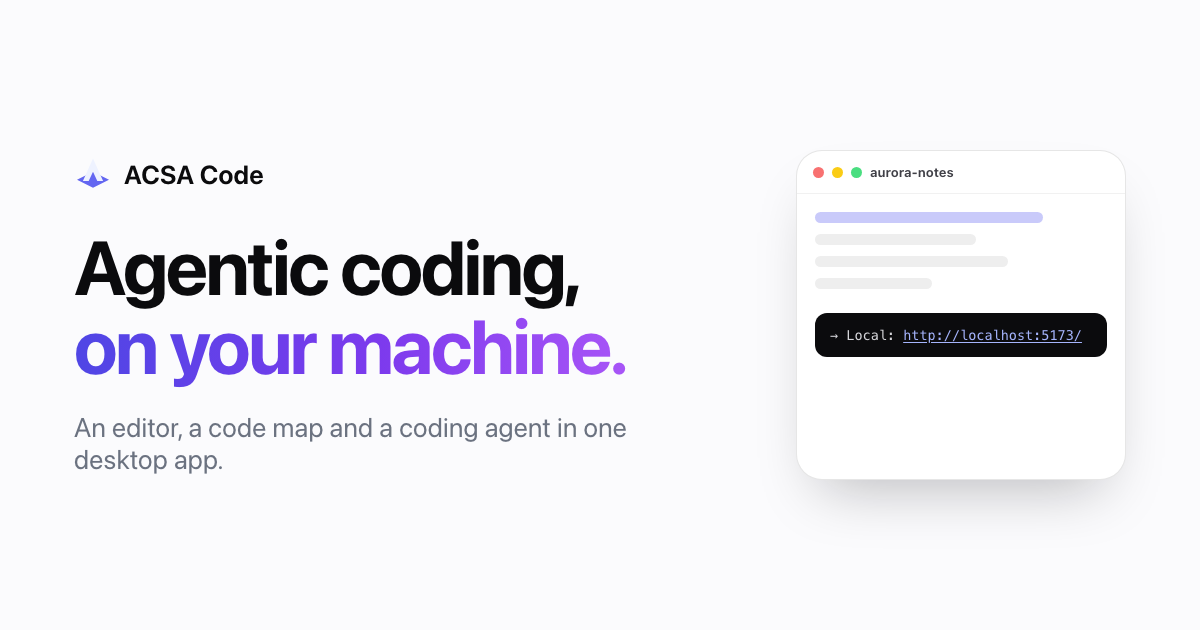
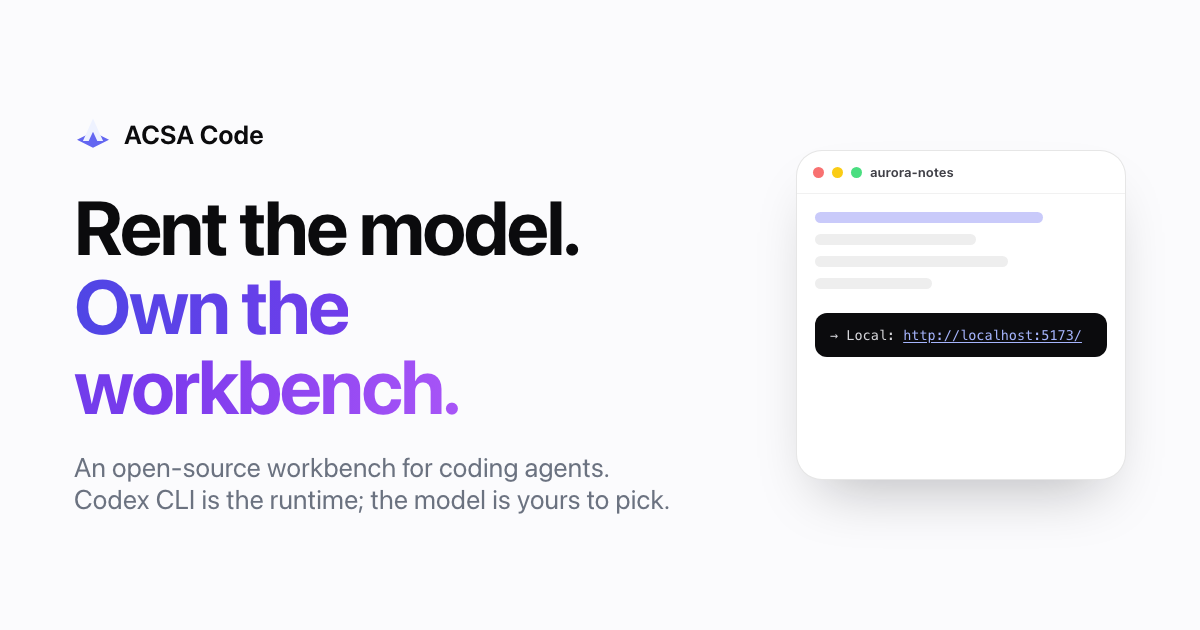
chore(site): remove what the replaced drawings left behind, and put the story in the metadata
Six drawings became real screenshots over the last two commits, and each one left its CSS behind: 48 rules for the diff blocks, the commit graph, the marketplace cards, the cost bars and the terminal that used to type itself. A rule was dropped only when every class in its selector was dead, so the four that shared a selector with something live had the dead part filtered out instead — .term2 out of '.term__body a, .term2 a', .repo out of '.limits, .repo'. Braces verified balanced afterwards (216/216). CSS 21.0 kB -> 17.5 kB.

The canvas routine went with the map drawing it belonged to: 121 lines of drawMap, its Node interface and the #mapCanvas wiring. JS 6.35 kB -> 4.39 kB, typecheck clean.

Then the metadata, which still advertised the old line: the title, both descriptions and the JSON-LD now say 'rent the model, own the workbench' and name Codex CLI as the runtime with any model behind it, and og.png is re-rendered from og.html so the card that gets shared says the same thing as the page it opens. That mattered more than it looks: the title is the first thing anyone reads, in a tab or a search result, and it was the one place still promising 'agentic coding, on your machine'.

Changed region(s): [[0.0617, 0.181, 0.5242, 0.6937], [0.0617, 0.7238, 0.555, 0.8143]]

diff --git a/site/src/styles.css b/site/src/styles.css
@@ -207,7 +207,7 @@ h1 { font-size: clamp(2.6rem, 6vw, 4.15rem); }
 .term__body .t-dim { color: #71717a; }
 .term__body .t-ok { color: #4ade80; }
 .term__body .t-accent { color: #a5b4fc; }
-.term__body a, .term2 a, .term__body .t-link, .term2 .t-link {
+.term__body a, .term__body .t-link {
   color: #a5b4fc; text-decoration: underline; text-underline-offset: 2px;
 }
 .caret { display: inline-block; width: 7px; height: 13px; background: #a5b4fc; vertical-align: -2px; animation: blink 1.05s steps(1) infinite; }
@@ -296,70 +296,8 @@ h1 { font-size: clamp(2.6rem, 6vw, 4.15rem); }
 }
 .fakechat__done { margin: 12px 0 4px; font-size: 0.85rem; color: var(--ink-2); border-top: 1px solid var(--line-2); padding-top: 12px; }
 
-.code { font-family: var(--mono); font-size: 0.79rem; }
-.code__row { display: flex; gap: 14px; padding: 2px 14px; line-height: 1.75; }
-.code__row--del { background: var(--del); }
-.code__row--add { background: var(--add); }
-.ln { color: #a1a1aa; width: 20px; text-align: right; flex: none; user-select: none; }
-.src { white-space: pre-wrap; word-break: break-word; color: var(--ink-2); }
-.code__row--del .src { color: #991b1b; }
-.code__row--add .src { color: #166534; }
 
-.repo { display: grid; grid-template-columns: 1fr 1fr; gap: 0; }
-.repo__col { padding: 15px 16px; }
-.repo__col + .repo__col { border-left: 1px solid var(--line-2); }
-.repo__label { margin: 0 0 11px; font-size: 0.71rem; font-weight: 650; letter-spacing: 0.06em; text-transform: uppercase; color: var(--muted); }
-.fileref { display: flex; align-items: center; gap: 8px; font-size: 0.8rem; color: var(--ink-2); padding: 6px 0; }
-.fileref .diff { margin-left: auto; }
-.swatch { width: 7px; height: 7px; border-radius: 2px; flex: none; }
-.swatch--mod { background: #f59e0b; }
-.swatch--new { background: var(--ok); }
-.repo__msg { margin: 14px 0 10px; font-size: 0.79rem; padding: 8px 10px; border: 1px solid var(--line-2); border-radius: 9px; color: var(--ink-2); background: #fdfdfe; }
-.commits { list-style: none; margin: 0; padding: 0; display: grid; gap: 9px; }
-.commits li { display: flex; gap: 8px; font-size: 0.79rem; color: var(--ink-2); position: relative; padding-left: 16px; }
-.commits li::before {
-  content: ""; position: absolute; left: 2px; top: 0.5em; width: 6px; height: 6px;
-  border-radius: 50%; background: #fff; border: 1.5px solid rgba(11, 11, 13, 0.28);
-}
-.commits li.is-lead::before { border-color: var(--accent); background: var(--accent); }
-.commits b { font-family: var(--mono); font-size: 0.71rem; font-weight: 600; color: var(--accent-ink); }
-.commits span { margin-left: auto; font-family: var(--mono); font-size: 0.7rem; color: #a1a1aa; }
-.ci {
-  display: flex; align-items: center; gap: 8px; margin-top: 16px; padding-top: 12px;
-  border-top: 1px solid var(--line-2); font-size: 0.79rem; color: var(--ink-2);
-}
-.ci__pip { width: 8px; height: 8px; border-radius: 50%; background: var(--ok); box-shadow: 0 0 0 3px var(--ok-soft); }
-.ci__meta { margin-left: auto; font-family: var(--mono); font-size: 0.7rem; color: var(--muted); }
-
-.term2 {
-  margin: 0; padding: 14px 16px; min-height: 150px; font-size: 0.79rem; line-height: 1.7;
-  background: #0f0f12; color: #d4d4d8; white-space: pre-wrap; word-break: break-word;
-}
-.term2 .t-dim { color: #71717a; }
-.term2 .t-ok { color: #4ade80; }
-
-.cards { display: grid; grid-template-columns: 1fr 1fr; gap: 10px; padding: 16px; }
-.mcard {
-  display: grid; gap: 3px; padding: 13px 14px; border: 1px solid var(--line); border-radius: 12px;
-  font-size: 0.83rem; transition: transform .18s ease, box-shadow .2s ease, border-color .2s ease;
-}
-.mcard:hover { transform: translateY(-2px); box-shadow: var(--shadow-2); border-color: rgba(11, 11, 13, 0.16); }
-.mcard b { font-weight: 650; }
-.mcard span { font-size: 0.71rem; color: var(--muted); }
-.mcard img { opacity: 0.9; }
-.mcard__mark { font-size: 1.1rem; color: var(--accent); line-height: 1; }
-
-.cost { padding: 16px; display: grid; gap: 18px; }
-.bars { display: grid; gap: 12px; }
-.bar { display: grid; grid-template-columns: 130px 1fr auto; align-items: center; gap: 12px; font-size: 0.78rem; }
-.bar span { color: var(--ink-2); font-family: var(--mono); font-size: 0.73rem; }
-.bar i { height: 8px; border-radius: 999px; background: var(--accent); width: var(--w, 0%); display: block; animation: grow 1.1s cubic-bezier(.2, .8, .2, 1) both; }
-.bar b { font-family: var(--mono); font-size: 0.73rem; font-weight: 600; }
 @keyframes grow { from { width: 0; } }
-.cost__sum { display: flex; gap: 32px; border-top: 1px solid var(--line-2); padding-top: 14px; }
-.cost__sum b { display: block; font-size: 1.24rem; letter-spacing: -0.02em; }
-.cost__sum span { font-size: 0.76rem; color: var(--muted); }
-
 /* ── Three steps ─────────────────────────────────────────────────────────── */
 .steps3 { list-style: none; margin: 54px 0 0; padding: 0; display: grid; grid-template-columns: repeat(3, 1fr); gap: 26px; counter-reset: s; }
 .steps3 li { background: var(--surface); border: 1px solid var(--line); border-radius: var(--r); padding: 26px 24px; box-shadow: var(--shadow-1); }
@@ -478,12 +416,10 @@ h1 { font-size: clamp(2.6rem, 6vw, 4.15rem); }
 @media (max-width: 720px) {
   .nav__links { display: none; }
   .band { padding: 76px 0; }
-  .limits, .repo { grid-template-columns: 1fr; }
-  .repo__col + .repo__col { border-left: 0; border-top: 1px solid var(--line-2); }
-  .cards, .grid4, .free__grid { grid-template-columns: 1fr; }
+  .limits { grid-template-columns: 1fr; }
+  .grid4, .free__grid { grid-template-columns: 1fr; }
   .providers { grid-template-columns: repeat(3, 1fr); }
   .stats { grid-template-columns: 1fr; }
-  .cost__sum { gap: 22px; }
   .finale { padding: 84px 0; }
 }
 @media (prefers-reduced-motion: reduce) {

diff --git a/site/src/main.ts b/site/src/main.ts
@@ -123,127 +123,6 @@ const HERO_TERMINAL: Segment[] = [
 ];
 
 
-/* ── The code map, drawn ─────────────────────────────────────────────────── */
-interface Node {
-  x: number;
-  y: number;
-  label: string;
-  r: number;
-  phase: number;
-  lead?: boolean;
-}
-
-function drawMap(canvas: HTMLCanvasElement): void {
-  const ctx = canvas.getContext("2d");
-  if (!ctx) return;
-
-  // A deterministic layout: a graph that reads like a small project rather than a
-  // random scatter, so the picture says "dependencies" at a glance.
-  const layout: Array<[number, number, string, boolean]> = [
-    [0.14, 0.24, "App.tsx", true],
-    [0.34, 0.14, "store.ts", false],
-    [0.5, 0.3, "notes.ts", false],
-    [0.68, 0.18, "api.ts", false],
-    [0.86, 0.3, "types.ts", false],
-    [0.2, 0.56, "parser.ts", false],
-    [0.42, 0.62, "editor.tsx", false],
-    [0.62, 0.52, "theme.ts", false],
-    [0.82, 0.66, "router.ts", false],
-    [0.3, 0.84, "tests/", false],
-    [0.54, 0.88, "fixtures.json", false],
-    [0.74, 0.86, "vite.config.ts", false],
-  ];
-  const edges: Array<[number, number]> = [
-    [0, 1], [0, 2], [0, 5], [1, 3], [1, 2], [2, 6], [2, 3], [3, 8],
-    [4, 3], [5, 6], [6, 7], [7, 8], [5, 9], [6, 10], [10, 11], [8, 11], [6, 11],
-  ];
-
-  let nodes: Node[] = [];
-  let scale = 1;
-
-  const resize = (): void => {
-    const dpr = Math.min(window.devicePixelRatio || 1, 2);
-    const rect = canvas.getBoundingClientRect();
-    const width = Math.max(rect.width, 320);
-    const height = Math.round(width * 0.38);
-    canvas.width = Math.round(width * dpr);
-    canvas.height = Math.round(height * dpr);
-    canvas.style.height = `${height}px`;
-    ctx.setTransform(dpr, 0, 0, dpr, 0, 0);
-    scale = width / 900;
-    nodes = layout.map(([x, y, label, lead]) => ({
-      x: x * width,
-      y: y * height,
-      label,
-      r: lead ? 8.5 : 6,
-      phase: (x + y) * 6,
-      lead,
-    }));
-  };
-
-  const paint = (time: number): void => {
-    const rect = canvas.getBoundingClientRect();
-    const width = rect.width;
-    const height = canvas.height / (Math.min(window.devicePixelRatio || 1, 2) || 1);
-    ctx.clearRect(0, 0, width, height);
-
-    const drift = (node: Node, axis: 0 | 1): number =>
-      reduceMotion ? 0 : Math.sin(time / 2200 + node.phase + axis) * 5;
-
-    // Edges first, so nodes sit on top.
-    ctx.lineWidth = 1.2;
-    edges.forEach(([from, to], i) => {
-      const a = nodes[from];
-      const b = nodes[to];
-      ctx.strokeStyle = "rgba(11,11,13,0.13)";
-      ctx.beginPath();
-      ctx.moveTo(a.x + drift(a, 0), a.y + drift(a, 1));
-      ctx.lineTo(b.x + drift(b, 0), b.y + drift(b, 1));
-      ctx.stroke();
-
-      // A packet that travels the edge, so the graph reads as live dependencies.
-      if (!reduceMotion && i % 3 === 0) {
-        const t = ((time / 3400) + i * 0.37) % 1;
-        const x = a.x + (b.x - a.x) * t;
-        const y = a.y + (b.y - a.y) * t;
-        ctx.fillStyle = "rgba(99,102,241,0.85)";
-        ctx.beginPath();
-        ctx.arc(x, y, 2.4, 0, Math.PI * 2);
-        ctx.fill();
-      }
-    });
-
-    nodes.forEach((node) => {
-      const x = node.x + drift(node, 0);
-      const y = node.y + drift(node, 1);
-      ctx.beginPath();
-      ctx.arc(x, y, node.r, 0, Math.PI * 2);
-      ctx.fillStyle = node.lead ? "#6366f1" : "#ffffff";
-      ctx.fill();
-      ctx.lineWidth = node.lead ? 2.5 : 1.6;
-      ctx.strokeStyle = node.lead ? "#ffffff" : "rgba(11,11,13,0.28)";
-      ctx.stroke();
-
-      ctx.font = `${Math.max(12, Math.round(12 * scale))}px ui-monospace, SFMono-Regular, Menlo, monospace`;
-      ctx.fillStyle = node.lead ? "#0b0b0d" : "rgba(107,114,128,1)";
-      ctx.textAlign = "center";
-      ctx.fillText(node.label, x, y - node.r - 7);
-    });
-  };
-
-  resize();
-  window.addEventListener("resize", resize);
-  if (reduceMotion) {
-    paint(0);
-    return;
-  }
-  const loop = (now: number): void => {
-    paint(now);
-    window.requestAnimationFrame(loop);
-  };
-  window.requestAnimationFrame(loop);
-}
-
 /* ── The sticky index follows the section in view ────────────────────────── */
 function scrollspy(): void {
   const links = Array.from(document.querySelectorAll<HTMLAnchorElement>(".toc__item"));
@@ -342,5 +221,3 @@ scrollspy();
 
 const heroTerm = document.getElementById("heroTerm");
 if (heroTerm) typeInto(heroTerm, HERO_TERMINAL);
-const mapCanvas = document.getElementById("mapCanvas");
-if (mapCanvas instanceof HTMLCanvasElement) drawMap(mapCanvas);

diff --git a/site/index.html b/site/index.html
@@ -3,19 +3,19 @@
   <head>
     <meta charset="utf-8" />
     <meta name="viewport" content="width=device-width, initial-scale=1" />
-    <title>ACSA Code — agentic coding, on your machine</title>
+    <title>ACSA Code — rent the model, own the workbench</title>
     <meta
       name="description"
-      content="A local-first engineering workbench: Monaco editor, a map of your codebase, git with a real commit graph, and an agent you can watch, steer, approve and undo. Bring your own model. macOS, MIT licensed, no account."
+      content="An open-source workbench for coding agents: Codex CLI is the runtime, the model is yours to pick — a free tier, a frontier API, or one on your own machine. Every change is a diff you can read, and any turn can be undone. macOS, MIT licensed, no account."
     />
     <link rel="canonical" href="https://acsacode.download/" />
     <link rel="icon" href="./apex-icon.svg" type="image/svg+xml" />
     <meta name="theme-color" content="#fbfbfd" />
     <meta property="og:type" content="website" />
-    <meta property="og:title" content="ACSA Code — agentic coding, on your machine" />
+    <meta property="og:title" content="ACSA Code — rent the model, own the workbench" />
     <meta
       property="og:description"
-      content="An editor, a code map and a coding agent in one desktop app. Your projects, keys and history stay on your machine."
+      content="Codex CLI as the runtime, any model behind it, and a diff you can read and undo. Open source, no account, nothing to install."
     />
     <meta property="og:url" content="https://acsacode.download/" />
     <meta property="og:image" content="https://acsacode.download/og.png" />
@@ -31,7 +31,7 @@
         "operatingSystem": "macOS 11+",
         "license": "https://opensource.org/licenses/MIT",
         "offers": { "@type": "Offer", "price": "0", "priceCurrency": "USD" },
-        "description": "A local-first agentic engineering workbench: editor, code map, git and an agent you can steer and undo."
+        "description": "An open-source workbench for coding agents: Codex CLI as the runtime, any model behind it, and a diff you can read and undo."
       }
     </script>
   </head>

diff --git a/site/og.html b/site/og.html
@@ -47,8 +47,8 @@
   <body>
     <div class="text">
       <div class="brand"><img src="./apex-mark.svg" alt="" width="38" height="38" />ACSA Code</div>
-      <h1>Agentic coding,<br /><span class="hl">on your machine.</span></h1>
-      <p>An editor, a code map and a coding agent in one desktop app.</p>
+      <h1>Rent the model.<br /><span class="hl">Own the workbench.</span></h1>
+      <p>An open-source workbench for coding agents. Codex&nbsp;CLI is the runtime; the model is yours to pick.</p>
     </div>
     <div class="art">
       <div class="card">
